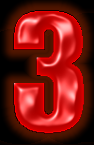
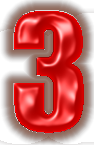
Key countdown and winner PICTs: black glow canvas becomes alpha
PICTs 138-144 (3/2/1/GO! and the winner banners) are glow art on a black
canvas the 2002 game never painted — DrawPicture left the starfield
visible. The rasterized PNGs made that canvas opaque black. The installer
now derives alpha from brightness for these: black transparent, glow
fading smoothly, anything at least half-bright opaque.

diff --git a/tools/install_original_assets.py b/tools/install_original_assets.py
@@ -161,6 +161,22 @@ def key_border_white(img, threshold=240):
     return img
 
 
+def key_black_glow(img):
+    """Countdown numbers and winner banners are glow art on a black canvas
+    the original never painted (DrawPicture left the starfield showing).
+    Alpha from brightness: black -> transparent, the glow fades smoothly,
+    anything at least half-bright stays opaque."""
+    img = img.convert("RGBA")
+    px = img.load()
+    w, h = img.size
+    for y in range(h):
+        for x in range(w):
+            r, g, b, _ = px[x, y]
+            v = max(r, g, b)
+            px[x, y] = (r, g, b, 255 if v >= 128 else v * 2)
+    return img
+
+
 def key_all_white(img, threshold=235):
     img = img.convert("RGBA")
     px = img.load()
@@ -208,6 +224,9 @@ def install_picts():
                 # lit menu items are glow text only: ALL white is background,
                 # including enclosed letter counters
                 img = key_all_white(img)
+            elif rid in (138, 139, 140, 141, 142, 143, 144):
+                # countdown 3/2/1/GO! and the winner banners
+                img = key_black_glow(img)
             img.save(os.path.join(PICS, f"{rid}.png"))
             n += 1
         os.remove(tmp)
